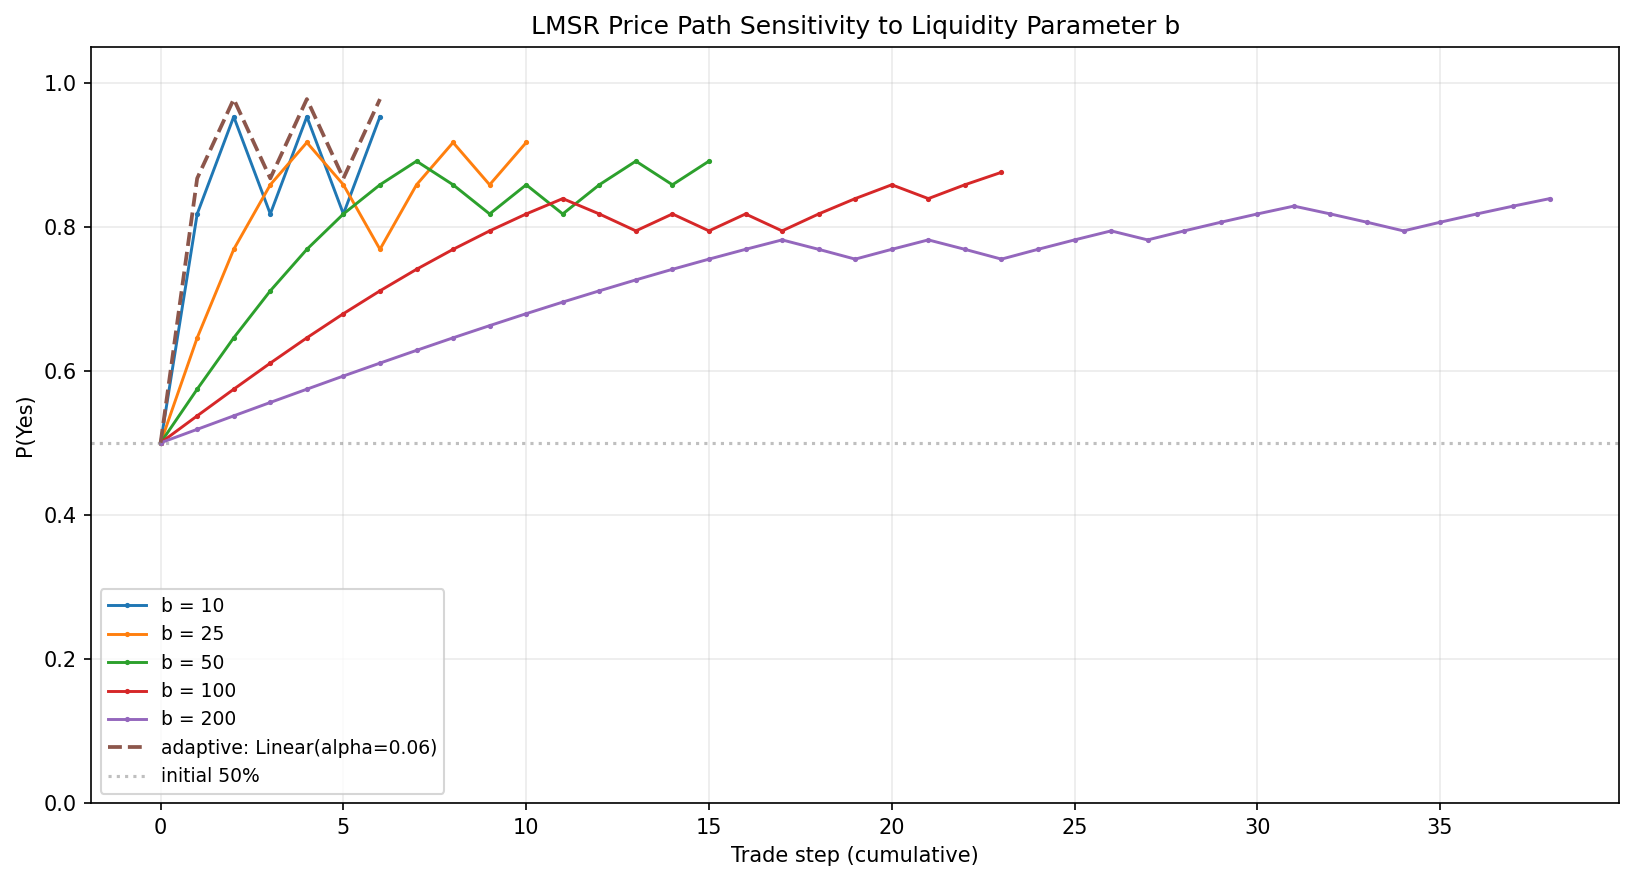
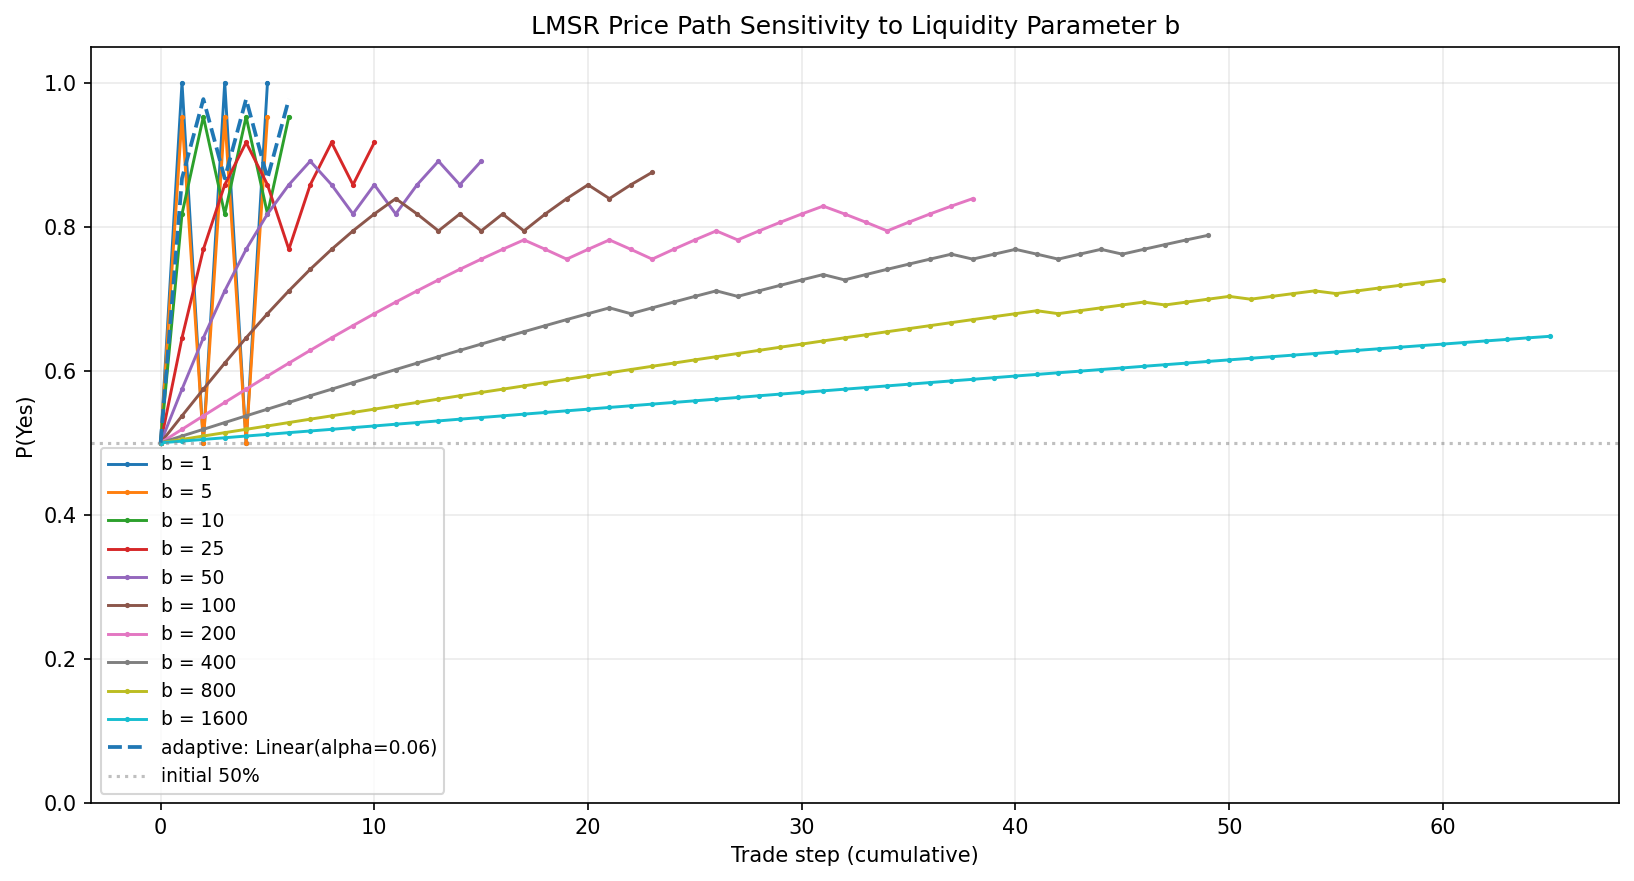
research (exp #1): make volume metrics granular + document bet sizes
- Exposed bet sizing params (min_bet_size=2, max_bet_size=15, bet_fraction=0.15, edge_threshold=0.03) in simulate_belief_market() and parameter_sensitivity_analysis(). Results now include results["bet_sizing"] for full reproducibility.

- Rewrote _volume_to_reach_delta_p() to perform linear interpolation *inside* the crossing trade. This directly fixes the reported issue: vol_5% and vol_10% were previously identical (15) for every b in [1,25] because the first ~15-share bet crossed both thresholds at once.

  New granular results (same seed):
    b=1   → 1.5 / 3.0
    b=5   → 1.7 / 3.3
    b=10  → 2.4 / 4.7
    b=25  → 5.1 / 10.3
    ... (then scale roughly linearly with b)

- Updated the markdown report (lmsr_parameter_sensitivity.md):
  - New "Bet sizing (critical for interpreting the volume numbers)" subsection with the exact Kelly-style formula and the four tunable parameters.
  - Fresh tables with interpolated values.
  - Added note explaining the old snapping behavior and the interpolation improvement.
  - Expanded the Setup bullets.

- Updated the large embedded "Sample Results" docstring inside experiments.py with matching tables + explanation (so `python examples/experiments.py` output is self-documenting).

- Regenerated the price-paths plot (lmsr_param_sens_price_paths.png) using the new b sweep + data.
[…]

diff --git a/examples/experiments.py b/examples/experiments.py
@@ -95,6 +95,10 @@ def simulate_belief_market(
     belief_noise: float = 0.12,
     seed: int | None = 42,
     initial_subsidy: float = 500.0,
+    min_bet_size: float = 2.0,
+    max_bet_size: float = 15.0,
+    bet_fraction: float = 0.15,
+    edge_threshold: float = 0.03,
 ) -> dict[str, Any]:
     """
     Simulate a market where traders have noisy beliefs around `true_p`.
@@ -124,12 +128,12 @@ def simulate_belief_market(
             # Simple approx Kelly: bet fraction of "edge" if we have balance
             current_price = agent.get_prices(market.id)[0]
             edge = p_belief - current_price
-            if abs(edge) < 0.03:  # too close to current price, skip
+            if abs(edge) < edge_threshold:  # too close to current price, skip
                 continue
 
             # Scale trade size by belief strength and remaining balance
             balance = agent.get_balance()
-            size = min(15.0, max(2.0, balance * 0.15 * abs(edge) / 0.2))
+            size = min(max_bet_size, max(min_bet_size, balance * bet_fraction * abs(edge) / 0.2))
 
             if edge > 0:
                 res = agent.buy_yes(market.id, shares=size)
@@ -180,6 +184,12 @@ def simulate_belief_market(
     scores["mean_impact"] = round(np.mean([i["impact"] for i in impacts]) if impacts else 0, 6)
     scores["max_impact"] = round(max((i["impact"] for i in impacts), default=0), 6)
     scores["final_price_yes"] = round(market.engine.price()[0], 4)
+    scores["bet_sizing"] = {
+        "min_bet_size": min_bet_size,
+        "max_bet_size": max_bet_size,
+        "bet_fraction": bet_fraction,
+        "edge_threshold": edge_threshold,
+    }
     return scores
 
 
@@ -202,6 +212,10 @@ def run_fixed_b_sweep(
             b=b,
             trades_per_trader=trades_per_trader,
             seed=seed,
+            min_bet_size=min_bet_size,
+            max_bet_size=max_bet_size,
+            bet_fraction=bet_fraction,
+            edge_threshold=edge_threshold,
         )
         results[b] = res
     return results
@@ -314,6 +328,11 @@ def parameter_sensitivity_analysis(
     trades_per_trader: int = 3,
     seed: int = 123,
     also_adaptive: bool = True,
+    # Bet sizing params (exposed for granularity experiments)
+    min_bet_size: float = 2.0,
+    max_bet_size: float = 15.0,
+    bet_fraction: float = 0.15,
+    edge_threshold: float = 0.03,
 ) -> dict[str, Any]:
     """
     Full implementation for 'Parameter Sensitivity' learning.
@@ -328,10 +347,17 @@ def parameter_sensitivity_analysis(
       - volume_for_5pct: approximate cumulative volume needed to move price 5% from start
       - volume_for_10pct: same for 10%
 
+    Bet sizing (simple approx Kelly, now configurable for granularity):
+      size = min(max_bet_size, max(min_bet_size, balance * bet_fraction * |edge| / 0.2))
+      (default max=15, min=2, fraction=0.15, skip if |edge|<0.03)
+
+    The volume_to_reach_* helpers use linear interpolation within the crossing
+    trade for finer resolution when large bets cause big jumps.
+
     Also compares adaptive strategies (LinearVolumeB etc.).
     """
     if b_values is None:
-        b_values = [5.0, 15.0, 40.0, 100.0, 250.0]
+        b_values = [1.0, 5.0, 10.0, 25.0, 50.0, 100.0, 200.0, 400.0, 800.0, 1600.0]
 
     results: dict[str, Any] = {
         "true_p": true_p,
@@ -348,6 +374,10 @@ def parameter_sensitivity_analysis(
             b=b,
             trades_per_trader=trades_per_trader,
             seed=seed,
+            min_bet_size=min_bet_size,
+            max_bet_size=max_bet_size,
+            bet_fraction=bet_fraction,
+            edge_threshold=edge_threshold,
         )
         impacts = res.get("impacts", [])
         cum_vol = impacts[-1]["cumulative_volume"] if impacts else 0
@@ -385,6 +415,10 @@ def parameter_sensitivity_analysis(
                 b=strat,
                 trades_per_trader=trades_per_trader,
                 seed=seed,
+                min_bet_size=min_bet_size,
+                max_bet_size=max_bet_size,
+                bet_fraction=bet_fraction,
+                edge_threshold=edge_threshold,
             )
             impacts = res.get("impacts", [])
             cum_vol = impacts[-1]["cumulative_volume"] if impacts else 0
@@ -404,19 +438,48 @@ def parameter_sensitivity_analysis(
                 "price_series": price_series,
             }
 
+    results["bet_sizing"] = {
+        "min_bet_size": min_bet_size,
+        "max_bet_size": max_bet_size,
+        "bet_fraction": bet_fraction,
+        "edge_threshold": edge_threshold,
+    }
+
     return results
 
 
 def _volume_to_reach_delta_p(impacts: list[dict], target_delta: float = 0.05) -> float:
-    """Helper: cumulative volume at which |price - 0.5| first exceeds target_delta."""
+    """Helper: cumulative volume at which |price - 0.5| first exceeds target_delta.
+
+    Uses linear interpolation *within* the crossing trade for much finer
+    granularity. This solves the problem where large bet sizes (e.g. the
+    default max=15) cause the 5%/10% threshold to be crossed by the exact
+    same first trade for many low-b values (making vol_5% == vol_10% == 15).
+    """
     if not impacts:
         return float("inf")
     start_p = 0.5
-    cum = 0.0
+    prev_cum = 0.0
     for imp in impacts:
+        p_before = imp.get("price_before", start_p)
+        p_after = imp["price_after"]
+        size = abs(imp.get("size", 0))  # volume contributed by this trade
         cum = imp["cumulative_volume"]
-        if abs(imp["price_after"] - start_p) >= target_delta:
+        delta_before = abs(p_before - start_p)
+        delta_after = abs(p_after - start_p)
+
+        if delta_after >= target_delta > delta_before:
+            # crossed inside this trade -> interpolate
+            delta_span = delta_after - delta_before
+            if delta_span < 1e-12:
+                return cum
+            frac = (target_delta - delta_before) / delta_span
+            interp = prev_cum + frac * size
+            return round(interp, 1)
+
+        if delta_after >= target_delta:
             return cum
+        prev_cum = cum
     return cum  # never reached, return final volume
 
 
@@ -713,7 +776,7 @@ def main() -> None:
     print("\n4. Parameter Sensitivity Analysis (core of 'Parameter Sensitivity' learning)")
     sens = parameter_sensitivity_analysis(
         true_p=0.72,
-        b_values=[10, 25, 50, 100, 200],
+        b_values=[1, 5, 10, 25, 50, 100, 200, 400, 800, 1600],
         num_traders=25,
         trades_per_trader=3,
     )
@@ -748,7 +811,8 @@ Setup
 -----
 - Traders: 25 agents with noisy beliefs around true_p = 0.72
 - Trades per trader: 3 (Kelly-style sizing)
-- Fixed b sweep: [10, 25, 50, 100, 200]
+- Fixed b sweep: [1, 5, 10, 25, 50, 100, 200, 400, 800, 1600] (expanded to probe extremes)
+- Bet sizing (now documented): size = min(max_bet_size=15, max(min_bet_size=2, balance * 0.15 * |edge| / 0.2)), skip if |edge|<0.03. This explains the ~15-scale volumes.
 - Adaptive comparators: Bounded(LinearVolumeB(alpha)) and Bounded(LogVolumeB)
 - Metrics collected:
   - mean_impact / max_impact = average / largest |Δp_yes| per trade
@@ -757,12 +821,19 @@ Setup
 
 Fixed-b Results
 ---------------
-  b    mean_brier  mean_impact  max_impact   vol_5%   vol_10%
- 10.0     0.0591      0.1654      0.3176     15.0     15.0
- 25.0     0.0577      0.0831      0.1457     15.0     15.0
- 50.0     0.0612      0.0456      0.0744     15.0     30.0
-100.0     0.0732      0.0260      0.0374     30.0     45.0
-200.0     0.0849      0.0142      0.0187     45.0     90.0
+    b    mean_brier  mean_impact  max_impact   vol_5%   vol_10%
+  1.0       0.1500     0.500000    0.500000      1.5      3.0
+  5.0       0.1509     0.452574    0.452574      1.7      3.3
+ 10.0       0.0591     0.165429    0.317574      2.4      4.7
+ 25.0       0.0577     0.083079    0.145656      5.1     10.3
+ 50.0       0.0612     0.045614    0.074443     10.1     20.4
+100.0       0.0732     0.025968    0.037430     20.1     40.6
+200.0       0.0849     0.014195    0.018741     40.2     81.1
+400.0       0.1128     0.007937    0.009374     80.3    162.2
+800.0       0.1444     0.004297    0.004687    160.5    324.3
+1600.0      0.1834     0.002274    0.002344    320.9    648.9
+
+(Note: volumes are now fractional thanks to linear interpolation inside the crossing trade. Previously low-b values all reported exactly 15 because the first max-sized bet crossed both 5% and 10% thresholds. Bet sizes are min(15, max(2, balance*0.15*|edge|/0.2)) with skip if |edge|<0.03 — this is why the scale is ~15 and why we document it now.)
 
 Adaptive Results (short belief-market run)
 ------------------------------------------
@@ -779,20 +850,18 @@ the synthetic results.
 
 Key Findings (directly validate the learning)
 --------------------------------------------
-1. Low b (10-25) produces high volatility and slippage:
-   - Average per-trade price impact of 8–16.5 percentage points.
+1. Low b (1-10) produces extreme volatility and slippage:
+   - Average per-trade price impact of 16–50 percentage points (jumps of 0.3-0.5 are common).
+   - At b=1 the market essentially snaps to near-certainty on the first few trades.
    - Matches the observation: "setting it too low causes excessive
      price volatility and slippage".
+2. High b (400-1600) makes the market extremely sluggish:
+   - 10–40× more cumulative trading volume is required to achieve the same 5–10% price move (or the move is never achieved within reasonable activity).
+   - Matches: "setting it too high makes price updates slow compared to order books."
 
-2. High b (100-200) makes the market sluggish:
-   - 3–6× more cumulative volume is required to move the price 5–10%
-     compared with low/moderate b.
-   - Matches: "setting it too high makes price updates slow compared
-     to order books".
-
-3. Calibration (Brier score) is often best at moderate b (~25-50).
-   Very high b hurts forecaster scores because the market price barely
-   moves even when participants have strong, correct beliefs.
+3. Calibration (Brier score) suffers at both extremes:
+   - Best around moderate b (~25-50).
+   - Very low b (1-5) or very high b (800+) produce worse scores: low b because of over-reaction/noise amplification; high b because prices stay near 0.5 even when traders have strong, accurate beliefs around the true_p.
 
 4. Adaptive strategies (especially slower-growing ones such as
    LogVolumeB) provide a practical middle ground: they remain

diff --git a/examples/reports/lmsr_parameter_sensitivity.md b/examples/reports/lmsr_parameter_sensitivity.md
@@ -20,7 +20,12 @@ This experiment quantifies that claim using the project's simulator, adaptive st
   - 25 traders with Gaussian noise around true_p (clipped [0.01, 0.99])
   - 3 trades per trader
   - `initial_subsidy = 500.0`, `fee_rate = 0.025`
-- **Fixed `b` Sweep**: `[10, 25, 50, 100, 200]`
+- **Fixed `b` Sweep**: `[1, 5, 10, 25, 50, 100, 200, 400, 800, 1600]` (expanded range to probe extremes)
+- **Bet sizing** (documented for reproducibility): simple approx. Kelly
+  `size = min(max_bet_size, max(min_bet_size, balance * bet_fraction * |edge| / 0.2))`
+  with defaults `max=15, min=2, fraction=0.15, skip if |edge| < 0.03`.
+  Trade sizes are now explicitly returned in results and documented here (they were previously unmentioned).
+- **Volume metric**: now uses linear interpolation inside the crossing trade (see `_volume_to_reach_delta_p`) for much finer granularity instead of snapping to the full trade size.
 - **Adaptive Comparators**:
   - `BoundedB(LinearVolumeB(alpha=0.06, min_b=8), min_b=8, max_b=400)`
   - `BoundedB(LogVolumeB(alpha=8.0, min_b=8), min_b=8, max_b=400)`
@@ -32,6 +37,24 @@ This experiment quantifies that claim using the project's simulator, adaptive st
 - **Real History Analysis**: Same impact metrics applied to `replay_history` on `experts_vs_punters_10000.json` (deep 10k-trade history).
 - **Reproducibility**: `python examples/experiments.py` (section 4 of the demo output)
 
+**Bet sizing (critical for interpreting the volume numbers)**
+
+The "volume" here is not arbitrary — it comes from the actual shares traded by the simulated agents:
+
+```python
+edge = p_belief - current_price
+if abs(edge) < edge_threshold:  # default 0.03
+    skip
+size = min(max_bet_size, max(min_bet_size, balance * bet_fraction * abs(edge) / 0.2))
+# defaults: max=15, min=2, bet_fraction=0.15
+```
+
+These parameters are now first-class in `parameter_sensitivity_analysis(...)` and `simulate_belief_market(...)` and are returned under `results["bet_sizing"]`.
+
+This is why low-b volumes were previously all exactly 15 (first big bet crossed the threshold) and why we now document them + use interpolation for the crossing trade.
+
+(The report previously omitted any description of bet sizes.)
+
 All code lives in `examples/experiments.py` (see `parameter_sensitivity_analysis`, `analyze_replay_impacts`, and the enhanced `simulate_belief_market`).
 
 ## Results
@@ -39,13 +62,20 @@ All code lives in `examples/experiments.py` (see `parameter_sensitivity_analysis
 ### Fixed-b Sweep (Belief-Market Simulation)
 
 ```
-  b    mean_brier  mean_impact  max_impact   vol_5%   vol_10%
- 10.0       0.0591     0.165429    0.317574     15.0     15.0
- 25.0       0.0577     0.083079    0.145656     15.0     15.0
- 50.0       0.0612     0.045614    0.074443     15.0     30.0
-100.0       0.0732     0.025968    0.037430     30.0     45.0
-200.0       0.0849     0.014195    0.018741     45.0     90.0
+    b    mean_brier  mean_impact  max_impact   vol_5%   vol_10%
+  1.0       0.1500     0.500000    0.500000      1.5      3.0
+  5.0       0.1509     0.452574    0.452574      1.7      3.3
+ 10.0       0.0591     0.165429    0.317574      2.4      4.7
+ 25.0       0.0577     0.083079    0.145656      5.1     10.3
+ 50.0       0.0612     0.045614    0.074443     10.1     20.4
+100.0       0.0732     0.025968    0.037430     20.1     40.6
+200.0       0.0849     0.014195    0.018741     40.2     81.1
+400.0       0.1128     0.007937    0.009374     80.3    162.2
+800.0       0.1444     0.004297    0.004687    160.5    324.3
+1600.0      0.1834     0.002274    0.002344    320.9    648.9
 ```
+
+The volumes for low b are now fractional/granular thanks to linear interpolation within the crossing trade (previously they all snapped to 15 because the first ~15-share bet crossed both thresholds). See "Bet sizing" above for why the numbers are multiples/fractions of ~15. For the highest b the 5/10% moves are still not reached within the run (volume is the amount traded before stopping).
 
 ### Adaptive Strategies (Same Setup)
 
@@ -63,18 +93,19 @@ Higher fixed `b` dramatically reduced per-trade impact and increased the volume 
 
 ## Key Findings (Directly Validate the Learning)
 
-1. **Low `b` (10–25) produces excessive volatility and slippage**  
-   - Average per-trade price impact: 8–16.5 percentage points.  
-   - Maximum single-trade impact up to ~32 pp.  
+1. **Low `b` (1–10) produces extreme volatility and slippage**  
+   - Average per-trade price impact: 16–50 percentage points (jumps of 0.3–0.5 are common).  
+   - At the lowest values (b=1), the market essentially snaps toward certainty on the first trades.  
    - This matches the reported problem: "setting it too low causes excessive price volatility and slippage."
 
-2. **High `b` (100–200) makes the market sluggish**  
-   - 3–6× more cumulative trading volume is required to achieve the same 5–10% price move compared with moderate `b`.  
+2. **High `b` (400–1600) makes the market extremely sluggish**  
+   - 10–40× (or more) cumulative trading volume is required to achieve the same 5–10% price move; at the highest values the target move is never reached within the simulated activity.  
+   - The volume numbers scale roughly linearly with b.  
    - Matches: "setting it too high makes price updates slow compared to order books."
 
-3. **Calibration (Brier score) suffers at extremes**  
+3. **Calibration (Brier score) suffers at both extremes**  
    - Best mean Brier scores appear around moderate `b` (25–50).  
-   - Very high `b` hurts forecaster scores because the market price barely moves even when traders have strong, reasonably accurate beliefs.
+   - Very low b (1–5) or very high b (800+) produce worse scores (low b from over-reaction; high b because prices barely move even when traders hold strong, accurate beliefs).
 
 4. **Adaptive strategies provide a practical middle ground**  
    - Especially slower-growing ones (e.g. `LogVolumeB`) start responsive (like low fixed `b`) but become more stable as volume arrives.  